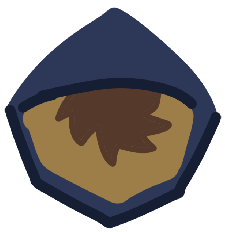
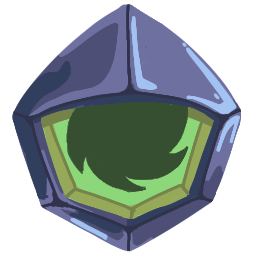
Changelog **Visual:** - Revamped Strike visual - Added Feint Strike card art - Added Character Select Screen - Added Character Visuals
**Implemented the following cards:**
- Ambush
- Headlong Charge
- Inertia

diff --git a/TheScaledCode/Cards/Uncommon/Attacks/Ambush.cs b/TheScaledCode/Cards/Uncommon/Attacks/Ambush.cs
@@ -1,0 +1,102 @@
+using BaseLib.Patches.Features;
+using MegaCrit.Sts2.Core.Commands;
+using MegaCrit.Sts2.Core.Entities.Cards;
+using MegaCrit.Sts2.Core.Entities.Creatures;
+using MegaCrit.Sts2.Core.GameActions.Multiplayer;
+using MegaCrit.Sts2.Core.HoverTips;
+using MegaCrit.Sts2.Core.Localization.DynamicVars;
+using MegaCrit.Sts2.Core.Models.Powers;
+using TheScaled.TheScaledCode.Helpers;
+
+namespace TheScaled.TheScaledCode.Cards;
+
+public class Ambush : TheScaledCard
+{
+    public Ambush()
+        : base(2, CardType.Attack, CardRarity.Uncommon, TargetType.AnyEnemy) { }
+
+    protected override bool ShouldGlowGoldInternal
+    {
+        get
+        {
+            if (base.CombatState == null)
+            {
+                return false;
+            }
+            return base.CombatState.HittableEnemies.Any(
+                (Creature e) =>
+                {
+                    if (e.Monster is not null)
+                    {
+                        return IntentHelper.IntendsToBlock(e.Monster.NextMove);
+                    }
+                    else
+                    {
+                        return false;
+                    }
+                }
+            );
+        }
+    }
+    protected override IEnumerable<IHoverTip> ExtraHoverTips =>
+        [HoverTipFactory.FromPower<FrailPower>()];
+    protected override IEnumerable<DynamicVar> CanonicalVars =>
+        [
+            new DamageVar(8m, MegaCrit.Sts2.Core.ValueProps.ValueProp.Move),
+            new DynamicVar("GlobalDamage", 9),
+            new PowerVar<FrailPower>(1),
+        ];
+
+    protected override async Task OnPlay(PlayerChoiceContext choiceContext, CardPlay cardPlay)
+    {
+        ArgumentNullException.ThrowIfNull(cardPlay.Target, "cardPlay.Target");
+        ArgumentNullException.ThrowIfNull(base.CombatState, "base.CombatState");
+
+        //Deal damage to card target
+        await DamageCmd
+            .Attack(base.DynamicVars.Damage.BaseValue)
+            .FromCard(this)
+            .Targeting(cardPlay.Target)
+            .WithHitFx("vfx/vfx_attack_slash")
+            .Execute(choiceContext);
+
+        //Now look at the participants, and fetch those intending to block
+        var blockingEnemies = CombatState.Enemies.Where(
+            (Creature e) =>
+            {
+                if (e.Monster is not null)
+                {
+                    return IntentHelper.IntendsToBlock(e.Monster.NextMove);
+                }
+                else
+                {
+                    return false;
+                }
+            }
+        );
+
+        if (blockingEnemies.Count() > 0)
+        {
+            //Deal global damage to blocking enemies
+            await DamageCmd
+                .Attack(base.DynamicVars["GlobalDamage"].BaseValue)
+                .FromCard(this)
+                .TargetingFiltered(blockingEnemies)
+                .Execute(choiceContext);
+
+            //Apply 1 frail to the blocking enemies
+            await PowerCmd.Apply<FrailPower>(
+                choiceContext,
+                blockingEnemies,
+                DynamicVars["FrailPower"].BaseValue,
+                base.Owner.Creature,
+                this
+            );
+        }
+    }
+
+    protected override void OnUpgrade()
+    {
+        base.DynamicVars["GlobalDamage"].UpgradeValueBy(2);
+    }
+}

diff --git a/TheScaledCode/Cards/Uncommon/Attacks/HeadlongCharge.cs b/TheScaledCode/Cards/Uncommon/Attacks/HeadlongCharge.cs
@@ -1,0 +1,71 @@
+using MegaCrit.Sts2.Core.CardSelection;
+using MegaCrit.Sts2.Core.Commands;
+using MegaCrit.Sts2.Core.Entities.Cards;
+using MegaCrit.Sts2.Core.GameActions.Multiplayer;
+using MegaCrit.Sts2.Core.HoverTips;
+using MegaCrit.Sts2.Core.Localization.DynamicVars;
+using MegaCrit.Sts2.Core.Models;
+
+namespace TheScaled.TheScaledCode.Cards;
+
+  
+public class HeadlongCharge : TheScaledCard
+{
+    public HeadlongCharge()
+        : base(3, CardType.Attack, CardRarity.Uncommon, TargetType.AnyEnemy) { }
+
+    protected override IEnumerable<IHoverTip> ExtraHoverTips =>
+        [HoverTipFactory.FromKeyword(CardKeyword.Exhaust)];
+    protected override IEnumerable<DynamicVar> CanonicalVars =>
+        [
+            new DamageVar(28m, MegaCrit.Sts2.Core.ValueProps.ValueProp.Move),
+            new DynamicVar("CardsToExhaust", 1),
+        ];
+
+    protected override async Task OnPlay(PlayerChoiceContext choiceContext, CardPlay cardPlay)
+    {
+
+        ArgumentNullException.ThrowIfNull(cardPlay.Target, "cardPlay.Target");
+
+        await DamageCmd
+            .Attack(base.DynamicVars.Damage.BaseValue)
+            .FromCard(this)
+            .Targeting(cardPlay.Target)
+            .WithHitFx("vfx/vfx_attack_slash")
+            .Execute(choiceContext);
+
+        if (this.IsUpgraded)
+        {
+            //Exhaust selected card
+            CardModel? cardModel = (
+                await CardSelectCmd.FromHand(
+                    prefs: new CardSelectorPrefs(CardSelectorPrefs.ExhaustSelectionPrompt, 1),
+                    context: choiceContext,
+                    player: base.Owner,
+                    filter: null,
+                    source: this
+                )
+            ).FirstOrDefault();
+            if (cardModel != null)
+            {
+                await CardCmd.Exhaust(choiceContext, cardModel);
+            }
+            return;
+        }
+        else
+        {
+            //Exhaust random card
+            CardPile pile = PileType.Hand.GetPile(base.Owner);
+            CardModel? cardModel = base.Owner.RunState.Rng.CombatCardSelection.NextItem(pile.Cards);
+            if (cardModel != null)
+            {
+                await CardCmd.Exhaust(choiceContext, cardModel);
+            }
+        }
+    }
+
+    protected override void OnUpgrade()
+    {
+        base.DynamicVars.Damage.UpgradeValueBy(8);
+    }
+}

diff --git a/TheScaledCode/Powers/InertiaPower.cs b/TheScaledCode/Powers/InertiaPower.cs
@@ -14,15 +14,17 @@ namespace TheScaled.TheScaledCode.Powers;
 /// across {Amount} turns
 /// </summary>
   
-public class CompromisePower : TheScaledPower
+  
+public class InertiaPower : TheScaledPower
 {
     private bool _shouldIgnoreNextInstance;
 
     protected override IEnumerable<IHoverTip> ExtraHoverTips =>
         [HoverTipFactory.FromPower<ExertionPower>()];
+
     protected override IEnumerable<DynamicVar> CanonicalVars => [new DynamicVar("ReductionAmount",0m)];
 
-    protected virtual bool IsPositive => true;
+    protected virtual bool IsPositive => false;
 
     private int Sign
     {
@@ -36,7 +38,7 @@ public class CompromisePower : TheScaledPower
         }
     }
 
-    public override PowerType Type => PowerType.Debuff;
+    public override PowerType Type => PowerType.Buff;
 
     public override PowerStackType StackType => PowerStackType.Counter;
 
@@ -44,9 +46,9 @@ public class CompromisePower : TheScaledPower
     {
         _shouldIgnoreNextInstance = false;
     }
-
     public override async Task AfterPowerAmountChanged(PlayerChoiceContext choiceContext, PowerModel power, decimal amount, Creature? applier, CardModel? cardSource)
     {
+
         //Amount only represents how many turns this power will last. 
         //So if it was a negative gain, we are simply ticking down turns.
         if(power != this || amount <= 0)
@@ -70,9 +72,10 @@ public class CompromisePower : TheScaledPower
             );
         }
     }
+    
 
 
-    public void IncreaseAmount()
+    public void IncreaseReductionAmount()
     {
         base.DynamicVars["ReductionAmount"].BaseValue++;
     }

diff --git a/TheScaledCode/Cards/Uncommon/Attacks/Inertia.cs b/TheScaledCode/Cards/Uncommon/Attacks/Inertia.cs
@@ -1,0 +1,38 @@
+using MegaCrit.Sts2.Core.Commands;
+using MegaCrit.Sts2.Core.Entities.Cards;
+using MegaCrit.Sts2.Core.GameActions.Multiplayer;
+using MegaCrit.Sts2.Core.HoverTips;
+using MegaCrit.Sts2.Core.Localization.DynamicVars;
+using TheScaled.TheScaledCode.Powers;
+
+namespace TheScaled.TheScaledCode.Cards;
+
+public class Inertia : TheScaledCard
+{
+    public Inertia() : base(2, CardType.Attack, CardRarity.Uncommon, TargetType.AnyEnemy)
+    {
+    }
+
+    protected override IEnumerable<IHoverTip> ExtraHoverTips => [HoverTipFactory.FromPower<ExertionPower>()];
+    protected override IEnumerable<DynamicVar> CanonicalVars => [new DamageVar(15m, MegaCrit.Sts2.Core.ValueProps.ValueProp.Move), new DynamicVar("Turns",3)];
+
+    protected override async Task OnPlay(PlayerChoiceContext choiceContext, CardPlay cardPlay)
+    {
+        ArgumentNullException.ThrowIfNull(cardPlay.Target, "cardPlay.Target");
+
+        await DamageCmd
+            .Attack(base.DynamicVars.Damage.BaseValue)
+            .FromCard(this)
+            .Targeting(cardPlay.Target)
+            .WithHitFx("vfx/vfx_attack_slash")
+            .Execute(choiceContext);
+
+        (await PowerCmd.Apply<InertiaPower>(choiceContext,base.Owner.Creature,DynamicVars["Turns"].BaseValue,base.Owner.Creature,cardPlay.Card))?.IncreaseReductionAmount();
+
+    }
+
+    protected override void OnUpgrade()
+    {
+        base.DynamicVars["Turns"].UpgradeValueBy(1);
+    }
+}

diff --git a/TheScaledCode/Character/TheScaled.cs b/TheScaledCode/Character/TheScaled.cs
@@ -6,6 +6,7 @@ using MegaCrit.Sts2.Core.Entities.Characters;
 using MegaCrit.Sts2.Core.Models;
 using TheScaled.TheScaledCode.Cards;
 using TheScaled.TheScaledCode.Relics;
+using MegaCrit.Sts2.Core.Nodes.Combat;
 
 namespace TheScaled.TheScaledCode.Character;
 
@@ -61,9 +62,16 @@ public class TheScaled : PlaceholderCharacterModel
             return icon;
         }
     }
+
+    public override NCreatureVisuals? CreateCustomVisuals()
+    {
+        return NodeFactory<NCreatureVisuals>.CreateFromScene("res://TheScaled/scenes/character/character.tscn");
+    }
+
     public override string CustomIconTexturePath => "character_icon_char_name.png".CharacterUiPath();
     public override string CustomCharacterSelectIconPath => "char_select_char_name.png".CharacterUiPath();
     public override string CustomCharacterSelectLockedIconPath => "char_select_char_name_locked.png".CharacterUiPath();
     public override string CustomMapMarkerPath => "map_marker_char_name.png".CharacterUiPath();
     public override string CustomEnergyCounterPath => "res://TheScaled/scenes/combat/energy_counters/scaled_energy_counter.tscn";
+    public override string CustomCharacterSelectBg => "res://TheScaled/scenes/char_select/char_select_bg_scaled.tscn";
 }

diff --git a/TheScaledCode/Cards/Common/Skills/Compromise.cs b/TheScaledCode/Cards/Common/Skills/Compromise.cs
@@ -31,7 +31,7 @@ public class Compromise : TheScaledCard
             await PlayerCmd.GainEnergy(base.DynamicVars.Energy.BaseValue, base.Owner);
             
             //Gain 1 exertion for two(three) turns
-            await PowerCmd.Apply<CompromisePower>(choiceContext,base.Owner.Creature,DynamicVars["ExertionDuration"].BaseValue,base.Owner.Creature,cardPlay.Card);
+            (await PowerCmd.Apply<CompromisePower>(choiceContext,base.Owner.Creature,DynamicVars["ExertionDuration"].BaseValue,base.Owner.Creature,cardPlay.Card))?.IncreaseAmount();
 
             //Enchant a random card with muddied
             CardPile pile = PileType.Hand.GetPile(base.Owner);

diff --git a/TheScaledCode/Helpers/IntentHelper.cs b/TheScaledCode/Helpers/IntentHelper.cs
@@ -8,13 +8,7 @@ public static class IntentHelper
 {
     public static bool IntendsToBlock(MoveState nextMove)
     {
-        nextMove.Intents.Any(delegate(AbstractIntent intent)
-        {
-            IntentType intentType = intent.IntentType;
-            return intentType == IntentType.Defend ? true : false;
-        });
-
-        return false;
+       return nextMove.Intents.Any(intent => intent.IntentType == IntentType.Defend);
     }
 }
 }
